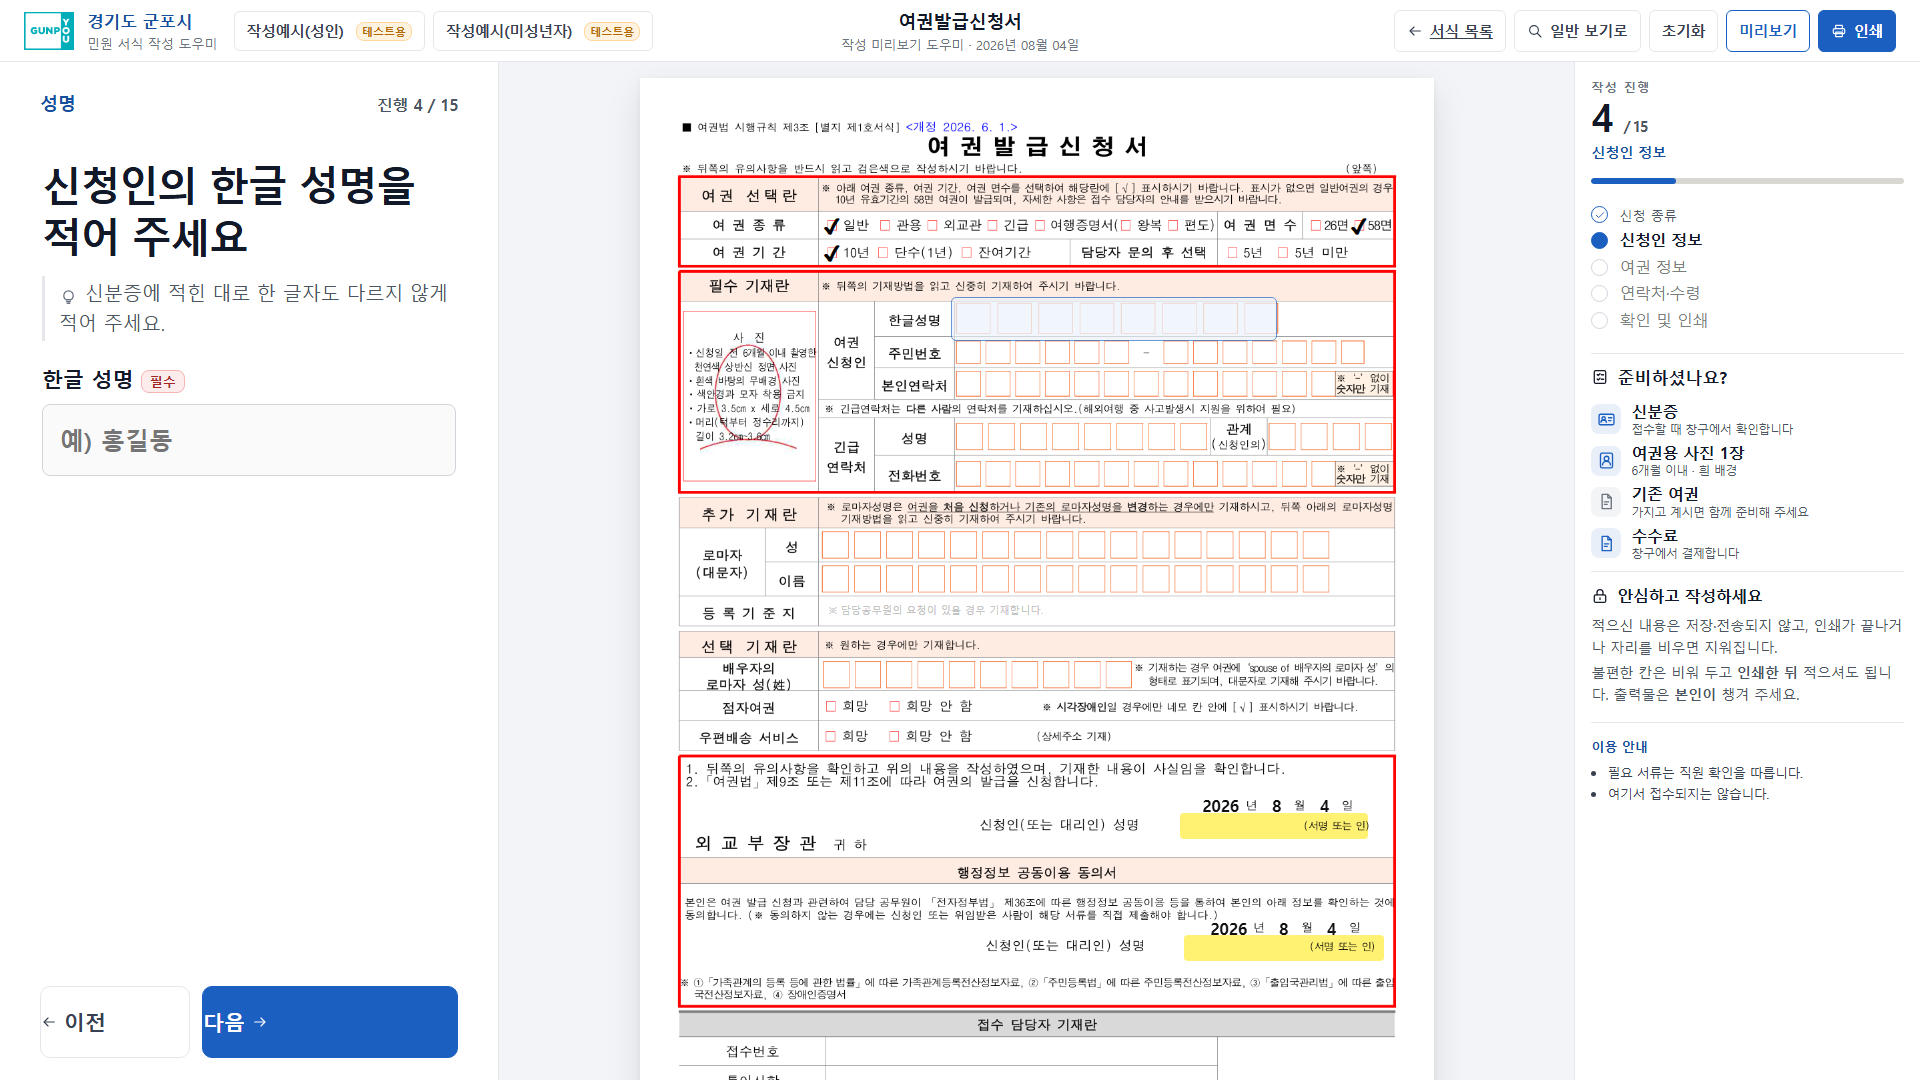
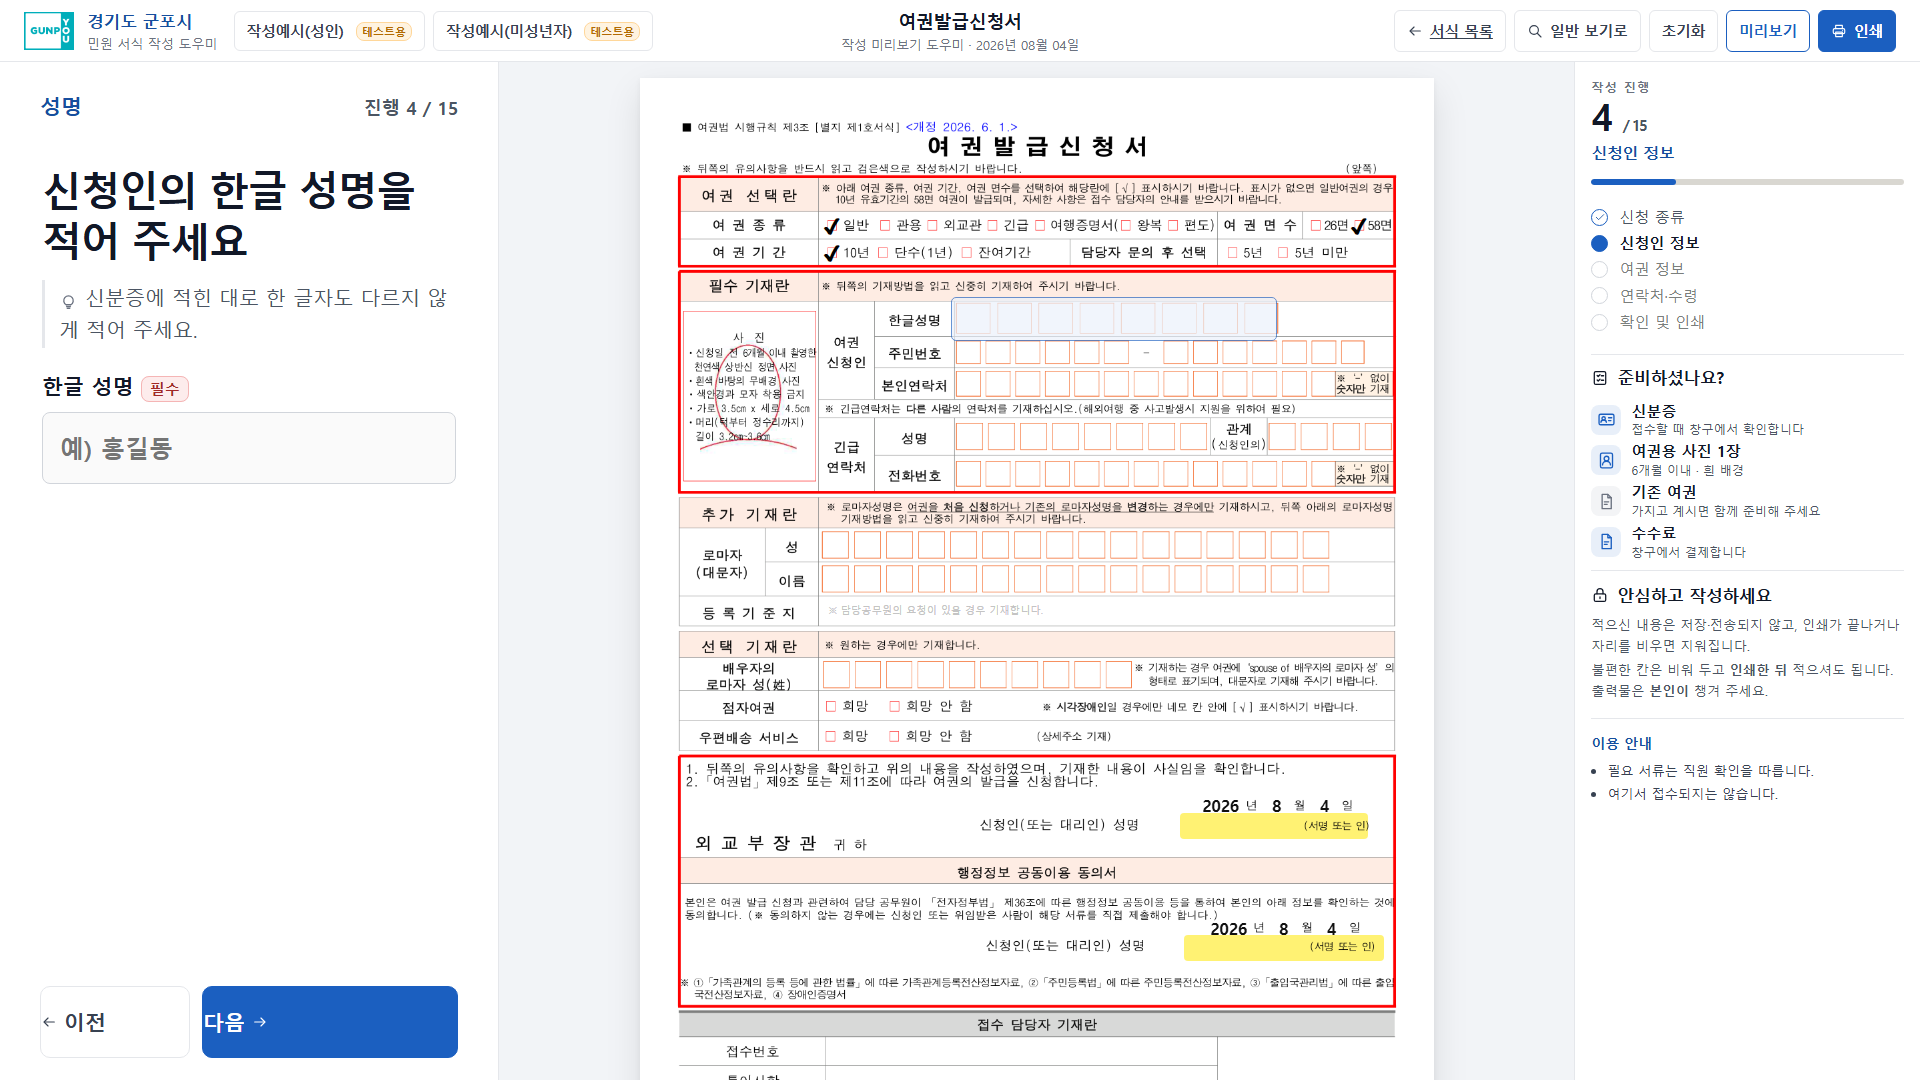
여권: 크게 보기 — 프레임 고정 · 정보 중요도로 차등 확대 (단계 7/2)
⚠ 실측해 보니 **크게 보기가 절반만 작동하고 있었다.** 이 파일에는 글자 크기가
하드코딩된 자리가 많아(2026.07 「어르신 가독성」 블록의 유산) 공통 토큰을 쓰는 것만
커지고 나머지는 **+0.0%** 였다 — 단계 제목·진행 n/n·힌트·**Handoff 문구 전부**·
로마자 판과 입력칸·요약 항목명·안내/경고 상자가 그랬다.

무엇을
- 여권 전용 `html.big` 타이포 블록 신설. **역할이 확대율을 정한다**
  · ASK 핵심(질문 34→40 · 라벨 18→21 · 입력 21→24 · 힌트 15.5→18) **+14~18%**
  · 본문 CTA 18→21 **+16.7%**
  · **Handoff** 판 제목 16→18.5 · 설명 14→16 · 단추 15→17.5 **+14~17%**(종전 0%)
  · 로마자 판/입력 16→18.5 · 20→23(종전 0%) · 요약 항목명 15→17.5
  · RAIL 은 **차등** — 진행 +10~12% · 준비물명 +11% · 조건 +7% · 안심/이용 +6% ·
    metadata 0%. ⛔ 일괄 +17~21% 는 금지(기둥이 넘친다)
- ⛔ **상단 바 버튼은 키우지 않는다.** `.actions` 가 이미 62px 을 채워 글자를 키우면
  **BAR 62px 고정이 깨진다.** 시민의 주 행동은 본문 [다음]이고 그것은 +16.7% 커졌다
- ⛔ **PAPER 는 0%.** 크게 보기는 작성 UI 의 가독성 기능이지 법정서식 확대가 아니다
- 최악 조건에서 3px 넘쳤을 때 **여백만**(크게 보기 준비물 gap 6→5px) 조정했다 —
  열 비율·PAPER·RAIL 스크롤·준비물 조건·기본 글자는 건드리지 않았다(사용자 지시 순서)
- `docs/UX_DECISIONS.md` **결정 ⑳** 신설 — 차등 확대 원칙과 「넘칠 때 하지 않는 것」

확인 (1920×1080 · 배율 1)
- ASK/PAPER/RAIL **495/1066/343** · BAR **62** · 종이 **794×1122** — 일반·크게 동일
- 15화면 **가로 넘침 0**
- **최악 RAIL(미성년+기존여권 = 준비물 6개) 넘침 0** — 일반·크게 모두
- Handoff: 로마자에서 **일반·크게 모두 스크롤 없이 보임**(바닥 158/227px) ·
  **Handoff 없는 화면은 0px** 로 자리를 먹지 않음
- 세로 넘침(허용): 로마자 358→544 · 요약 715→849 · 법정대리인 252→449
  📌 요약 849px 는 15행 정보량에 따른 정상 스크롤로 인정(사용자 결정) —
     정보 삭제·문구 축약·열 비율·PAPER·기본 글자 축소로 줄이지 않는다
- verify-print 19쪽 0px · --electron 19쪽 0px · verify-site-config 6개 ·
  check-design-tokens / check-site-block 9화면 동일 · make-form-previews --check ·
[…]

diff --git a/kiosk-app/app/passport-helper-v1.html b/kiosk-app/app/passport-helper-v1.html
@@ -840,13 +840,86 @@ html.big{
   .screen-notice ul{margin:0;padding-left:16px;}
   .screen-notice li{margin:3px 0;line-height:1.45;}
 
+  /* ══ 크게 보기 — 글자 (2026.08.28 단계 7) ═══════════════════════════════
+     **프레임은 그대로, 읽어야 하는 글자만 크게.**
+     ⛔ 열 비율(26/56/18) · BAR 62px · 종이 794×1122 는 건드리지 않는다.
+     ⛔ 종이 안의 신청서 글씨는 **확대 대상이 아니다** — 크게 보기는 작성 UI 의
+        가독성 기능이지 법정서식을 키우는 기능이 아니다.
+
+     ⚠ 이 파일에는 글자 크기가 **하드코딩된 자리가 많다**(2026.07 「어르신 가독성」
+        블록의 유산). 공통 토큰(`--fs-*`)을 쓰는 것만 크게 보기에서 커지고 나머지는
+        그대로였다 — 단계 제목·힌트·Handoff 문구·로마자 판·요약 항목명·안내 상자가
+        전부 0% 였다(실측). 여기서 **역할별로** 올린다.
+
+     ⚠ 확대율은 역할이 정한다 — ASK(읽고 답하는 곳) +15~18% ·
+        RAIL(곁눈으로 보는 곳) +5~12% · metadata 는 그대로.
+        RAIL 을 일괄로 키우면 **미성년 + 기존 여권 = 준비물 6개**에서 기둥이 넘친다.
+     ═══════════════════════════════════════════════════════════════════════ */
+
+  /* ── 1순위 ASK — 읽고 답하는 글자 (+15~18%) ── */
+  html.big .wiz-title{font-size:21px;}
+  html.big .wiz-count{font-size:18px;}
+  html.big .q-help{font-size:18.5px;}
+  html.big .hint{font-size:18px;}
+  html.big .why-box{font-size:20px;}      /* 공통 19 → 20 (+17.6%) — 1순위 읽는 글 */
+  html.big .card-desc{font-size:17.5px;}  /* 공통 17 → 17.5 (+16.7%) */
+  html.big .opt-label{font-size:22px;}
+  html.big .opt-desc{font-size:18.5px;}
+  html.big .opt-rec{font-size:15px;}
+  html.big .fb{font-size:15px;}
+  html.big .age-status{font-size:17.5px;}
+  /* Handoff — 막힌 사람이 찾는 글자다. ASK 와 같은 비율로 키운다 */
+  html.big .ask-tx b{font-size:18.5px;}
+  html.big .ask-tx span{font-size:16px;}
+  html.big .ask-btn{font-size:17.5px;}
+  html.big .card-sub{font-size:18px;}
+  /* 안내·경고 상자 */
+  html.big .info-box{font-size:18.5px;}
+  html.big .warn-strong,html.big .note-box{font-size:18px;}
+  html.big .unsure-note,html.big .step-warn,html.big .staff-list{font-size:17px;}
+  html.big .print-tip{font-size:18px;}
+  html.big .sug-title{font-size:17.5px;}
+  html.big .sug-row{font-size:18.5px;}
+  html.big .sug-note{font-size:17px;}
+  html.big .sug-btn{font-size:17px;}
+  html.big .dunno-btn{font-size:18px;}
+  /* 로마자 화면 — 참고 판과 입력 판 (1열이라 폭에 여유가 있다) */
+  html.big .roman-h{font-size:18.5px;}
+  html.big .roman-p{font-size:16px;}
+  html.big .roman-side .field-label{font-size:18.5px;}
+  html.big .roman-side .text-input{font-size:23px;}
+  html.big .roman-state{font-size:15.5px;}
+  /* 최종 확인 */
+  html.big .sum-row .k{font-size:17.5px;}
+  html.big .sum-edit{font-size:17px;}
+  html.big details.terms summary,html.big details.terms .term{font-size:18px;}
+
+  /* ── 3순위 RAIL — **차등**으로 올린다 ──
+     ⛔ 일괄 +17~21% 금지(사용자 지시). 곁눈으로 보는 자리이고, 여기가 넘치면
+        진행·준비물이 화면 밖으로 밀린다. 공통 토큰이 주는 값보다 **낮춰** 잡는다. */
+  html.big .rail-num{font-size:37px;}          /* 공통 38 → 37 (+12%) */
+  html.big .rail-now{font-size:15.5px;}        /* 14 → 15.5 (+11%) */
+  html.big .rail-step{font-size:15px;}         /* 공통 15.5 → 15 (+11%) */
+  html.big .rail-head{font-size:16.5px;}       /* 공통 17 → 16.5 (+10%) */
+  html.big .rail-item b{font-size:15px;}       /* 준비물명 13.5 → 15 (+11%) */
+  html.big .rail-item small{font-size:12.3px;} /* 준비물 조건 11.5 → 12.3 (+7%) */
+  html.big .rail-safe p{font-size:13.3px;}     /* 공통 14 → 13.3 (+6%) */
+  html.big .screen-notice{font-size:13.2px;}   /* 12.5 → 13.2 (+6%) */
+  html.big .screen-notice h3{font-size:14px;}
+  /* metadata 는 그대로 — 읽는 글이 아니라 있는 것을 확인하는 자리다 */
+  html.big .rail-cap{font-size:12px;}
+
+  /* ── 2순위 버튼 — 글자만. ⛔ 높이·터치 표적(`--btn-h`·`--touch-*`)은 손대지 않는다 ──
+     ⚠ 상단 바 버튼은 **키우지 않는다.** BAR 62px 안에서 이미 `.actions` 가 62px 이라
+        글자를 키우면 바가 밀린다(BAR 62 불변). 시민이 누르는 것은 본문 [다음]이다. */
+
   /* ── 크게 보기의 RAIL 여백 (2026.08.28 단계 6) ──
      ⚠ 글자가 커지면 같은 내용이 25px 더 든다(미성년 경로 실측). **글자는 그대로 두고**
         묶음 사이의 숨만 줄여 기둥 안에 담는다 — 스크롤이 생기면 진행·준비물이 밀린다.
      ⛔ 크게 보기의 글자 크기는 단계 7 소관이다. 여기서 건드리지 마라. */
   html.big .rail{padding:16px 16px 14px;}
   html.big .rail-sec{margin-bottom:10px;}
-  html.big .rail-items{gap:6px;}
+  html.big .rail-items{gap:5px;}   /* ⚠ 단계 7 에서 글자가 커진 만큼 여백을 3px 더 조였다 */
   html.big .rail-steps{gap:6px;}
   html.big .rail-rule{margin:0 0 10px;}
   /* ⚠ 크게 보기에서 준비물 여섯 개(미성년 + 기존 여권)가 19px 넘쳤다 —

diff --git a/passport-helper-v1.html b/passport-helper-v1.html
@@ -840,13 +840,86 @@ html.big{
   .screen-notice ul{margin:0;padding-left:16px;}
   .screen-notice li{margin:3px 0;line-height:1.45;}
 
+  /* ══ 크게 보기 — 글자 (2026.08.28 단계 7) ═══════════════════════════════
+     **프레임은 그대로, 읽어야 하는 글자만 크게.**
+     ⛔ 열 비율(26/56/18) · BAR 62px · 종이 794×1122 는 건드리지 않는다.
+     ⛔ 종이 안의 신청서 글씨는 **확대 대상이 아니다** — 크게 보기는 작성 UI 의
+        가독성 기능이지 법정서식을 키우는 기능이 아니다.
+
+     ⚠ 이 파일에는 글자 크기가 **하드코딩된 자리가 많다**(2026.07 「어르신 가독성」
+        블록의 유산). 공통 토큰(`--fs-*`)을 쓰는 것만 크게 보기에서 커지고 나머지는
+        그대로였다 — 단계 제목·힌트·Handoff 문구·로마자 판·요약 항목명·안내 상자가
+        전부 0% 였다(실측). 여기서 **역할별로** 올린다.
+
+     ⚠ 확대율은 역할이 정한다 — ASK(읽고 답하는 곳) +15~18% ·
+        RAIL(곁눈으로 보는 곳) +5~12% · metadata 는 그대로.
+        RAIL 을 일괄로 키우면 **미성년 + 기존 여권 = 준비물 6개**에서 기둥이 넘친다.
+     ═══════════════════════════════════════════════════════════════════════ */
+
+  /* ── 1순위 ASK — 읽고 답하는 글자 (+15~18%) ── */
+  html.big .wiz-title{font-size:21px;}
+  html.big .wiz-count{font-size:18px;}
+  html.big .q-help{font-size:18.5px;}
+  html.big .hint{font-size:18px;}
+  html.big .why-box{font-size:20px;}      /* 공통 19 → 20 (+17.6%) — 1순위 읽는 글 */
+  html.big .card-desc{font-size:17.5px;}  /* 공통 17 → 17.5 (+16.7%) */
+  html.big .opt-label{font-size:22px;}
+  html.big .opt-desc{font-size:18.5px;}
+  html.big .opt-rec{font-size:15px;}
+  html.big .fb{font-size:15px;}
+  html.big .age-status{font-size:17.5px;}
+  /* Handoff — 막힌 사람이 찾는 글자다. ASK 와 같은 비율로 키운다 */
+  html.big .ask-tx b{font-size:18.5px;}
+  html.big .ask-tx span{font-size:16px;}
+  html.big .ask-btn{font-size:17.5px;}
+  html.big .card-sub{font-size:18px;}
+  /* 안내·경고 상자 */
+  html.big .info-box{font-size:18.5px;}
+  html.big .warn-strong,html.big .note-box{font-size:18px;}
+  html.big .unsure-note,html.big .step-warn,html.big .staff-list{font-size:17px;}
+  html.big .print-tip{font-size:18px;}
+  html.big .sug-title{font-size:17.5px;}
+  html.big .sug-row{font-size:18.5px;}
+  html.big .sug-note{font-size:17px;}
+  html.big .sug-btn{font-size:17px;}
+  html.big .dunno-btn{font-size:18px;}
+  /* 로마자 화면 — 참고 판과 입력 판 (1열이라 폭에 여유가 있다) */
+  html.big .roman-h{font-size:18.5px;}
+  html.big .roman-p{font-size:16px;}
+  html.big .roman-side .field-label{font-size:18.5px;}
+  html.big .roman-side .text-input{font-size:23px;}
+  html.big .roman-state{font-size:15.5px;}
+  /* 최종 확인 */
+  html.big .sum-row .k{font-size:17.5px;}
+  html.big .sum-edit{font-size:17px;}
+  html.big details.terms summary,html.big details.terms .term{font-size:18px;}
+
+  /* ── 3순위 RAIL — **차등**으로 올린다 ──
+     ⛔ 일괄 +17~21% 금지(사용자 지시). 곁눈으로 보는 자리이고, 여기가 넘치면
+        진행·준비물이 화면 밖으로 밀린다. 공통 토큰이 주는 값보다 **낮춰** 잡는다. */
+  html.big .rail-num{font-size:37px;}          /* 공통 38 → 37 (+12%) */
+  html.big .rail-now{font-size:15.5px;}        /* 14 → 15.5 (+11%) */
+  html.big .rail-step{font-size:15px;}         /* 공통 15.5 → 15 (+11%) */
+  html.big .rail-head{font-size:16.5px;}       /* 공통 17 → 16.5 (+10%) */
+  html.big .rail-item b{font-size:15px;}       /* 준비물명 13.5 → 15 (+11%) */
+  html.big .rail-item small{font-size:12.3px;} /* 준비물 조건 11.5 → 12.3 (+7%) */
+  html.big .rail-safe p{font-size:13.3px;}     /* 공통 14 → 13.3 (+6%) */
+  html.big .screen-notice{font-size:13.2px;}   /* 12.5 → 13.2 (+6%) */
+  html.big .screen-notice h3{font-size:14px;}
+  /* metadata 는 그대로 — 읽는 글이 아니라 있는 것을 확인하는 자리다 */
+  html.big .rail-cap{font-size:12px;}
+
+  /* ── 2순위 버튼 — 글자만. ⛔ 높이·터치 표적(`--btn-h`·`--touch-*`)은 손대지 않는다 ──
+     ⚠ 상단 바 버튼은 **키우지 않는다.** BAR 62px 안에서 이미 `.actions` 가 62px 이라
+        글자를 키우면 바가 밀린다(BAR 62 불변). 시민이 누르는 것은 본문 [다음]이다. */
+
   /* ── 크게 보기의 RAIL 여백 (2026.08.28 단계 6) ──
      ⚠ 글자가 커지면 같은 내용이 25px 더 든다(미성년 경로 실측). **글자는 그대로 두고**
         묶음 사이의 숨만 줄여 기둥 안에 담는다 — 스크롤이 생기면 진행·준비물이 밀린다.
      ⛔ 크게 보기의 글자 크기는 단계 7 소관이다. 여기서 건드리지 마라. */
   html.big .rail{padding:16px 16px 14px;}
   html.big .rail-sec{margin-bottom:10px;}
-  html.big .rail-items{gap:6px;}
+  html.big .rail-items{gap:5px;}   /* ⚠ 단계 7 에서 글자가 커진 만큼 여백을 3px 더 조였다 */
   html.big .rail-steps{gap:6px;}
   html.big .rail-rule{margin:0 0 10px;}
   /* ⚠ 크게 보기에서 준비물 여섯 개(미성년 + 기존 여권)가 19px 넘쳤다 —

diff --git a/docs/UX_DECISIONS.md b/docs/UX_DECISIONS.md
@@ -882,3 +882,42 @@ Main → 상세(카드 펼침판) → [Ready — 필요한 서식만] → Writin
 
 > 근거 · `passport-helper-v1.html` 의 `toCounter()`·`renderCounter()`·`resetAll()` ·
 > 철학 §8 Human Escape is a Feature
+
+---
+
+## ⑳ 크게 보기는 **정보 중요도에 따라 차등 확대**한다
+
+**결정**(2026.08.28 · 여권 Writing 단계 7)
+
+크게 보기는 화면 전체를 키우는 Zoom 이 아니라 **읽어야 하는 글자만** 키우는 가독성 기능입니다.
+그래서 확대율을 **역할이 정합니다.** 일괄 배율을 쓰면 곁눈으로 보는 정보가 본문만큼 커져
+정작 질문이 묻히고, 오른쪽 기둥이 넘쳐 진행·준비물이 화면 밖으로 밀립니다.
+
+| 역할 | 확대율 |
+|---|---|
+| ASK 핵심(질문·설명·라벨·입력값·선택지) | **+14~18%** |
+| 본문 CTA([다음]·[신청서 인쇄]) | **+16.7%** |
+| Human Handoff 문구·단추 | **+14~17%** |
+| RAIL 진행(큰 숫자·현재 묶음·단계) | **+10~12%** |
+| RAIL 준비물명 | +11% |
+| RAIL 준비물 **조건** | **+7%** (⛔ 삭제하지 않는다) |
+| RAIL 안심·이용 안내 | **+6%** |
+| metadata(캡션·날짜·기관 표기) | **0%** |
+| **상단 바 버튼** | **0%** |
+| **PAPER(종이와 그 안의 신청서 글씨)** | **0%** |
+
+**왜**
+
+- 크게 보기의 목적은 **작성 UI 의 가독성**이지 법정서식 확대가 아닙니다. 종이를 키우면
+  좌표 기준(`794×1122`)이 흔들리고, 서식은 이미 A4 1:1 입니다.
+- 상단 바 버튼을 키우면 **BAR 62px 고정**이 깨집니다(`.actions` 가 이미 62px 을 채웁니다).
+  시민의 주 행동은 본문 [다음]이고 그것은 +16.7% 커집니다.
+- RAIL 을 일괄로 키우면 **미성년 + 기존 여권 = 준비물 6개**에서 기둥이 넘칩니다.
+  넘치면 스크롤이 생기고, 키오스크에서 옆 기둥을 굴리는 사람은 드뭅니다.
+
+**⛔ 넘칠 때 하지 않는 것** — 열 비율(26/56/18) 변경 · PAPER 축소 · RAIL 스크롤 허용 ·
+준비물 조건 삭제 · 기본 글자 축소. 먼저 **여백·줄 간격**을 조이고, 그래도 남으면 **보고**합니다.
+
+> 근거 · `passport-helper-v1.html` 의 `html.big` 블록(단계 7) ·
+> 실측: `tools/measure-screen.py` · 최악 조건은 미성년 + 기존 여권(준비물 6개)
+
